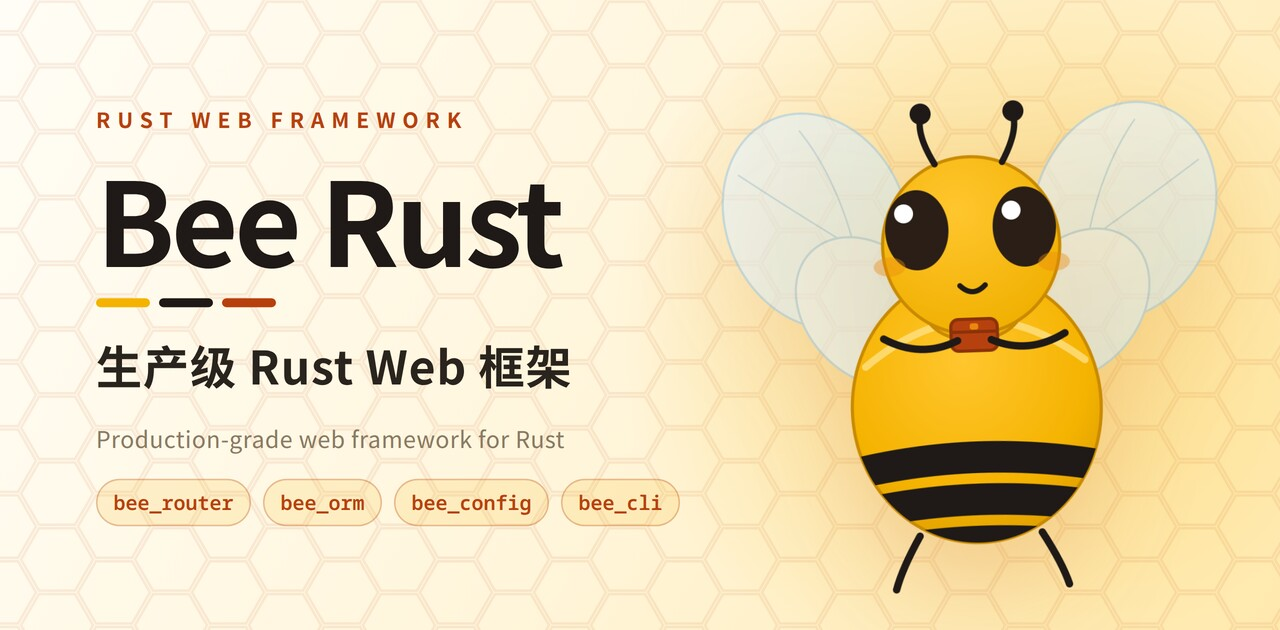
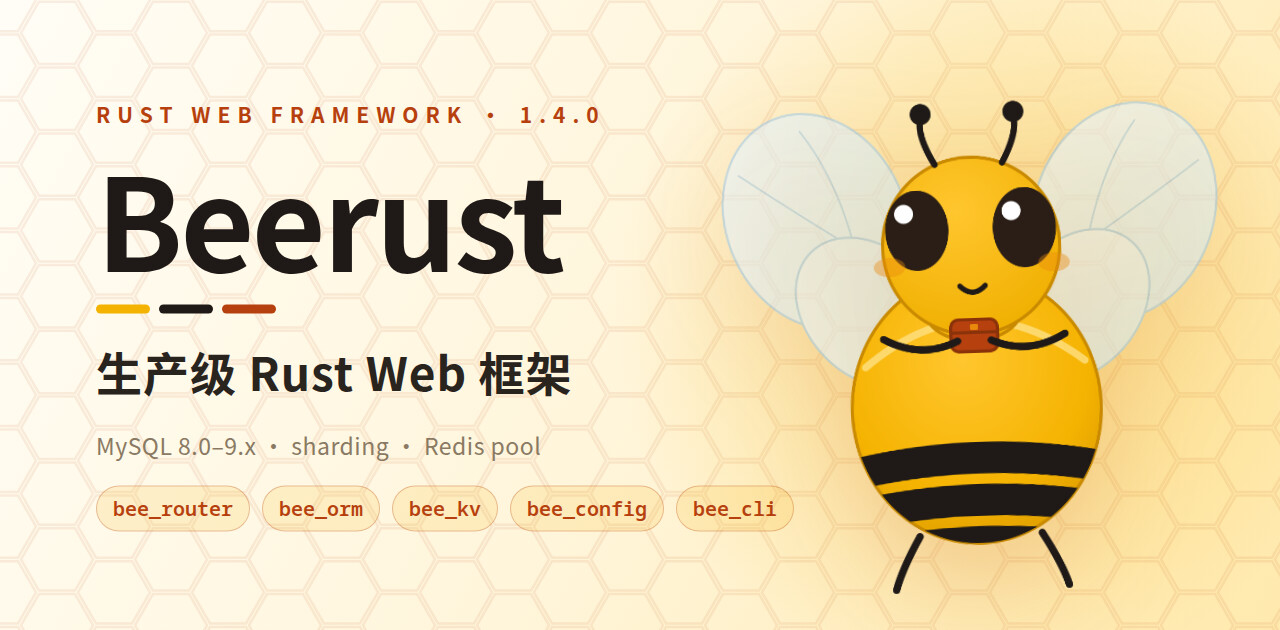
docs(site): refresh v1.4.0 feature copy and social preview

diff --git a/site/index.html b/site/index.html
@@ -4,7 +4,7 @@
 <meta charset="utf-8">
 <meta name="viewport" content="width=device-width, initial-scale=1, viewport-fit=cover">
 <title>Bee Rust · 生产级 Rust Web 框架</title>
-<meta name="description" content="Bee Rust 是生产级 Rust Web 框架：Beego 哲学，用 trait、macro 与类型系统表达。内置 MVC、ORM、过滤器链、CLI 与存储引擎。">
+<meta name="description" content="Bee Rust 是生产级 Rust Web 框架：Beego 哲学，用 trait、macro 与类型系统表达。内置 MVC、ORM（MySQL 8.0–9.x、分库分表）、过滤器链、CLI 与存储引擎（Redis 真连接池与分布式锁）。">
 <meta name="author" content="erik">
 <meta name="applicable-device" content="pc,mobile">
 <meta name="theme-color" content="#12100D">
@@ -16,7 +16,7 @@
 <meta property="og:locale" content="zh_CN">
 <meta property="og:locale:alternate" content="en_US">
 <meta property="og:title" content="Bee Rust · 生产级 Rust Web 框架">
-<meta property="og:description" content="Beego 的设计哲学，用 Rust 的 trait、macro 与类型系统重新表达。">
+<meta property="og:description" content="Beego 的设计哲学，用 Rust 的 trait、macro 与类型系统重新表达；ORM 支持 MySQL 8.0–9.x 与分库分表，Redis 提供真连接池和分布式锁。">
 <meta property="og:image" content="https://bee-rust.erik.xyz/assets/img/social-preview.jpg">
 <meta property="og:image:type" content="image/jpeg">
 <meta property="og:image:width" content="1280">
@@ -24,7 +24,7 @@
 <meta property="og:image:alt" content="Bee Rust 社交预览卡：蜜白蜂巢背景上的 Bee Rust 字标与 Rusty">
 <meta name="twitter:card" content="summary_large_image">
 <meta name="twitter:title" content="Bee Rust · 生产级 Rust Web 框架">
-<meta name="twitter:description" content="Beego 的设计哲学，用 Rust 的 trait、macro 与类型系统重新表达。">
+<meta name="twitter:description" content="Beego 的设计哲学，用 Rust 的 trait、macro 与类型系统重新表达；ORM 支持 MySQL 8.0–9.x 与分库分表，Redis 提供真连接池和分布式锁。">
 <meta name="twitter:image" content="https://bee-rust.erik.xyz/assets/img/social-preview.jpg">
 <meta name="twitter:image:alt" content="Bee Rust 社交预览卡：蜜白蜂巢背景上的 Bee Rust 字标与 Rusty">
 <link rel="icon" href="assets/img/rusty-face.svg" type="image/svg+xml"><link rel="apple-touch-icon" href="assets/img/apple-touch-icon.png">
@@ -114,7 +114,7 @@
     {
       "@type": "Question",
       "name": "支持哪些数据库？",
-      "acceptedAnswer": { "@type": "Answer", "text": "SQLite、PostgreSQL、MySQL、TiDB（bee_orm）；Redis、Memcached；Elasticsearch、OpenSearch、ClickHouse；Neo4j、NebulaGraph、ArangoDB；InfluxDB、IoTDB、QuestDB。每个后端都由独立 feature 门控，详见架构。" }
+      "acceptedAnswer": { "@type": "Answer", "text": "SQLite、PostgreSQL、MySQL 8.0 / 8.4 / 9.x、TiDB（bee_orm，支持必须带分片键的分库分表）；Redis（真实连接池与 RedisLock）、Memcached；Elasticsearch、OpenSearch、ClickHouse；Neo4j、NebulaGraph、ArangoDB；InfluxDB、IoTDB、QuestDB。每个后端都由独立 feature 门控，详见架构。" }
     },
     {
       "@type": "Question",
@@ -210,10 +210,10 @@
       </header>
       <div class="feature-grid">
         <article class="feature-card" data-reveal><div class="hex-badge">WEB</div><h3 data-en="Web core">Web 核心</h3><p data-en="MVC controllers, Context, namespaced routing, RESTful methods, and a request filter chain. ctx.json() / text() / html() / redirect() / abort().">MVC 控制器、Context、命名空间路由、RESTful 方法注册与请求过滤器链。ctx.json() / text() / html() / redirect() / abort()。</p><div class="tags"><span>bee_router</span></div></article>
-        <article class="feature-card" data-reveal><div class="hex-badge">ORM</div><h3 data-en="ORM">ORM</h3><p data-en="#[derive(Model)] + QuerySet, CRUD, three connection pools with transactions and timeouts, non-destructive migrations, belongs_to / has_many / m2m, JSON columns, and chrono / rust_decimal mapping.">#[derive(Model)] + QuerySet、CRUD、三后端连接池（事务与超时控制）、非破坏性迁移、belongs_to / has_many / m2m、JSON 列与 chrono / rust_decimal 类型映射。</p><div class="tags"><span>bee_orm</span></div></article>
+        <article class="feature-card" data-reveal><div class="hex-badge">ORM</div><h3 data-en="ORM">ORM</h3><p data-en="#[derive(Model)] + QuerySet, CRUD, three connection pools with transactions and timeouts, MySQL 8.0 / 8.4 / 9.x, key-required database/table sharding (ShardedPools / HashRouter; no cross-shard queries or transactions), non-destructive migrations, belongs_to / has_many / m2m, JSON columns, and chrono / rust_decimal mapping.">#[derive(Model)] + QuerySet、CRUD、三后端连接池（事务与超时控制）、MySQL 8.0 / 8.4 / 9.x、必须带分片键的库/表两级分片（ShardedPools / HashRouter；不支持跨分片查询与事务）、非破坏性迁移、belongs_to / has_many / m2m、JSON 列与 chrono / rust_decimal 类型映射。</p><div class="tags"><span>bee_orm</span></div></article>
         <article class="feature-card" data-reveal><div class="hex-badge">SEC</div><h3 data-en="Security filter">安全检测</h3><p data-en="32 built-in detectors from security-rust 4: XSS, SQL injection, command injection, SSRF, path traversal, Log4Shell, reDoS, and more. One line to enable.">security-rust 4 的 32 个内置检测器：XSS、SQL 注入、命令注入、SSRF、路径穿越、Log4Shell、reDoS 等。一行代码开启。</p><div class="tags"><span>security</span></div></article>
         <article class="feature-card" data-reveal><div class="hex-badge">CFG</div><h3 data-en="Config, logs, templates">配置、日志、模板</h3><p data-en="INI / YAML / ENV with hot reload, levelled logging over tracing, and tera templates.">INI / YAML / ENV 加载与热更新、基于 tracing 的多级日志、tera 模板渲染。</p><div class="tags"><span>bee_config</span><span>bee_logs</span><span>bee_template</span></div></article>
-        <article class="feature-card" data-reveal><div class="hex-badge">DB</div><h3 data-en="Storage engines">多存储引擎</h3><p data-en="One trait per family: Redis, Memcached, Elasticsearch, OpenSearch, ClickHouse, Neo4j, NebulaGraph, ArangoDB, InfluxDB, IoTDB, QuestDB.">每类一套 trait：Redis、Memcached、Elasticsearch、OpenSearch、ClickHouse、Neo4j、NebulaGraph、ArangoDB、InfluxDB、IoTDB、QuestDB。</p><div class="tags"><span>bee_kv</span><span>bee_search</span><span>bee_graph</span><span>bee_tsdb</span></div></article>
+        <article class="feature-card" data-reveal><div class="hex-badge">DB</div><h3 data-en="Storage engines">多存储引擎</h3><p data-en="One trait per family: Redis with a real deadpool-redis pool and RedisLock, Memcached, Elasticsearch, OpenSearch, ClickHouse, Neo4j, NebulaGraph, ArangoDB, InfluxDB, IoTDB, QuestDB.">每类一套 trait：Redis（deadpool-redis 真连接池 + RedisLock 分布式锁）、Memcached、Elasticsearch、OpenSearch、ClickHouse、Neo4j、NebulaGraph、ArangoDB、InfluxDB、IoTDB、QuestDB。</p><div class="tags"><span>bee_kv</span><span>bee_search</span><span>bee_graph</span><span>bee_tsdb</span></div></article>
         <article class="feature-card" data-reveal><div class="hex-badge">CLI</div><h3 data-en="CLI">CLI</h3><p data-en="Scaffold a project, generate controllers and models, run with hot reload, pack a release, and drive migrations.">创建脚手架、生成控制器与模型、热重载运行、打包发布，以及执行迁移。</p><div class="tags"><span>bee_cli</span></div></article>
       </div>
       <div class="evolution" data-reveal>
@@ -244,7 +244,7 @@
             <div class="arch-crate"><b>bee_router</b><small data-en="routing · controllers · filters">路由 · 控制器 · 过滤器</small></div><div class="arch-crate"><b>bee_template</b><small data-en="tera templates">tera 模板</small></div><div class="arch-crate"><b>bee_session</b><small data-en="memory · redis · cookie/database planned">Memory · Redis · Cookie/Database 规划</small></div>
           </div>
           <div class="arch-col"><h3 data-en="Data layer">数据层</h3>
-            <div class="arch-crate"><b>bee_orm</b><small data-en="models · QuerySet · pools">模型 · QuerySet · 连接池</small></div><div class="arch-crate"><b>bee_config</b><small data-en="INI / YAML / ENV">INI / YAML / ENV</small></div><div class="arch-crate"><b>bee_cache</b><small data-en="memory · redis · memcache">Memory · Redis · Memcache</small></div><div class="arch-crate"><b>bee_kv</b><small data-en="redis · memcached">Redis · Memcached</small></div>
+            <div class="arch-crate"><b>bee_orm</b><small data-en="models · QuerySet · pools · sharding">模型 · QuerySet · 连接池 · 分片</small></div><div class="arch-crate"><b>bee_config</b><small data-en="INI / YAML / ENV">INI / YAML / ENV</small></div><div class="arch-crate"><b>bee_cache</b><small data-en="memory · redis · memcache">Memory · Redis · Memcache</small></div><div class="arch-crate"><b>bee_kv</b><small data-en="redis pool · lock · memcached">Redis 池 · 锁 · Memcached</small></div>
           </div>
           <div class="arch-col"><h3 data-en="Tool layer">工具层</h3>
             <div class="arch-crate"><b>bee_cli</b><small data-en="scaffold · codegen · run · pack · migrate">脚手架 · 代码生成 · 运行 · 打包 · 迁移</small></div><div class="arch-crate"><b>bee_logs</b><small data-en="tracing integration">tracing 集成</small></div>
@@ -252,7 +252,7 @@
         </div>
         <div class="arch-arrow" aria-hidden="true"></div>
         <div class="arch-layer arch-layer--storage"><span class="arch-label" data-en="Storage engines">存储引擎</span>
-          <div class="arch-storage"><span><b data-en="Relational">关系型</b> SQLite · PostgreSQL · MySQL · TiDB <code>bee_orm</code></span><span><b data-en="KV / cache">KV / 缓存</b> Redis · Memcached <code>bee_kv</code> <code>bee_cache</code></span><span><b data-en="Search">搜索</b> Elasticsearch · OpenSearch · ClickHouse <code>bee_search</code></span><span><b data-en="Graph">图</b> Neo4j · NebulaGraph · ArangoDB <code>bee_graph</code></span><span><b data-en="Time series">时序</b> InfluxDB · IoTDB · QuestDB <code>bee_tsdb</code></span></div>
+          <div class="arch-storage"><span><b data-en="Relational">关系型</b> SQLite · PostgreSQL · MySQL 8.0 / 8.4 / 9.x · TiDB <code>bee_orm</code></span><span><b data-en="KV / cache">KV / 缓存</b> Redis · Memcached <code>bee_kv</code> <code>bee_cache</code></span><span><b data-en="Search">搜索</b> Elasticsearch · OpenSearch · ClickHouse <code>bee_search</code></span><span><b data-en="Graph">图</b> Neo4j · NebulaGraph · ArangoDB <code>bee_graph</code></span><span><b data-en="Time series">时序</b> InfluxDB · IoTDB · QuestDB <code>bee_tsdb</code></span></div>
         </div>
       </div>
       <p class="arch-note" data-reveal data-en="search, graph and tsdb are opt-in — they are not part of the default full set. Every storage backend is behind its own feature flag.">search / graph / tsdb 按需开启，不在默认 full 内；每个存储后端都由独立 feature 门控。</p>
@@ -508,7 +508,7 @@ cd my-app &amp;&amp; cargo run</code></pre>
         </article>
         <article class="faq-card">
           <h3 data-en="Which databases are supported?">支持哪些数据库？</h3>
-          <p data-en="SQLite, PostgreSQL, MySQL, and TiDB through bee_orm; Redis and Memcached; Elasticsearch, OpenSearch, and ClickHouse; Neo4j, NebulaGraph, and ArangoDB; InfluxDB, IoTDB, and QuestDB. Each backend is behind its own feature flag — see the <a href='#architecture'>architecture section</a>.">SQLite、PostgreSQL、MySQL、TiDB（bee_orm）；Redis、Memcached；Elasticsearch、OpenSearch、ClickHouse；Neo4j、NebulaGraph、ArangoDB；InfluxDB、IoTDB、QuestDB。每个后端都由独立 feature 门控，详见<a href="#architecture">架构</a>。</p>
+          <p data-en="SQLite, PostgreSQL, MySQL 8.0 / 8.4 / 9.x, and TiDB through bee_orm (with key-required database/table sharding); Redis (real connection pool and RedisLock) and Memcached; Elasticsearch, OpenSearch, and ClickHouse; Neo4j, NebulaGraph, and ArangoDB; InfluxDB, IoTDB, and QuestDB. Each backend is behind its own feature flag — see the <a href='#architecture'>architecture section</a>.">SQLite、PostgreSQL、MySQL 8.0 / 8.4 / 9.x、TiDB（bee_orm，支持必须带分片键的分库分表）；Redis（真实连接池与 RedisLock）、Memcached；Elasticsearch、OpenSearch、ClickHouse；Neo4j、NebulaGraph、ArangoDB；InfluxDB、IoTDB、QuestDB。每个后端都由独立 feature 门控，详见<a href="#architecture">架构</a>。</p>
         </article>
         <article class="faq-card">
           <h3 data-en="How do I install it?">如何安装？</h3>

diff --git a/docs/social-preview.html b/docs/social-preview.html
@@ -97,16 +97,16 @@
     <div class="glow"></div>
     <img class="bee" src="rusty-notext.png" alt="">
     <main class="meta">
-      <div class="eyebrow">Rust Web Framework</div>
+      <div class="eyebrow">Rust Web Framework · 1.4.0</div>
       <div class="wordmark">Beerust</div>
       <div class="stripes"><i></i><i></i><i></i></div>
       <p class="tagline">生产级 Rust Web 框架</p>
-      <p class="sub">Production-grade web framework for Rust</p>
+      <p class="sub">MySQL 8.0–9.x · sharding · Redis pool</p>
       <div class="chips">
-        <span>bee_router</span><span>bee_orm</span><span>bee_config</span><span>bee_cli</span>
+        <span>bee_router</span><span>bee_orm</span><span>bee_kv</span><span>bee_config</span><span>bee_cli</span>
       </div>
     </main>
-    <div class="foot">16 crates · MVC · ORM · CLI · Rust 2024</div>
+    <div class="foot">15 crates · MySQL 8.0–9.x · sharding · Redis pool · Rust 2024</div>
   </div>
 <script>
   const v = (new URLSearchParams(location.search).get('v') || 'A').toUpperCase();

diff --git a/site/changelog.html b/site/changelog.html
@@ -116,7 +116,7 @@
       <div>
         <p class="eyebrow eyebrow--dark"><span class="pulse"></span><span data-en="Changelog · Every release">版本日志 · 每一次迭代</span></p>
         <h1 data-en="Changelog">版本日志</h1>
-        <p class="log-lede" data-en="From the first workspace to the 1.4.0 hardening pass. Every release, the changes that matter.">从初始工作区到 1.4.0 的硬化收敛。每一次发布，只留下真正重要的变化。</p>
+        <p class="log-lede" data-en="From the first workspace to the 1.4.0 release. Every release, the changes that matter.">从初始工作区到 1.4.0 的发布。每一次发布，只留下真正重要的变化。</p>
         <div class="log-meta">
           <span><b>1.4.0</b><small data-en="latest">最新</small></span>
           <span><b>12</b><small data-en="releases">个版本</small></span>

diff --git a/site/assets/js/changelog.js b/site/assets/js/changelog.js
@@ -46,7 +46,7 @@
     bindIndexObserver();
     var title = l === 'en' ? 'Changelog · Bee Rust' : '版本日志 · Bee Rust';
     var description = l === 'en'
-      ? 'Bee Rust release history, from the initial 1.0.3 workspace to the 1.4.0 hardening pass.'
+      ? 'Bee Rust release history, from the initial 1.0.3 workspace to the 1.4.0 release.'
       : 'Bee Rust 版本日志：从 1.0.3 到 1.4.0 的每次迭代，按版本查看新增、修复与清理。';
     if (window.BeeSite && window.BeeSite.applyMeta) {
       window.BeeSite.applyMeta(title, description, l === 'en' ? 'en_US' : 'zh_CN');
